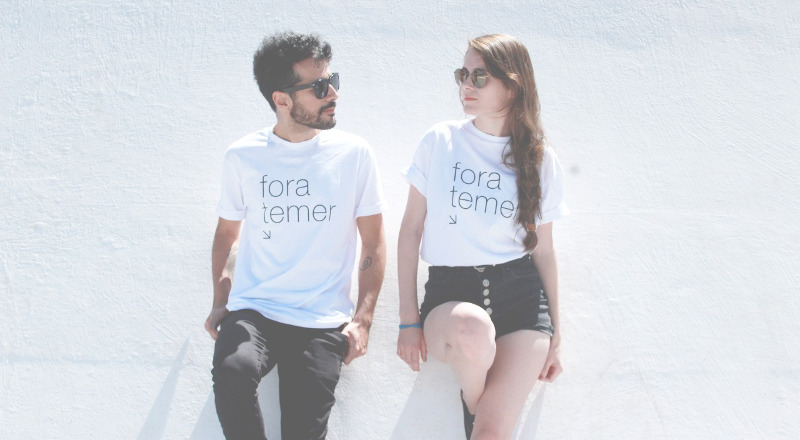
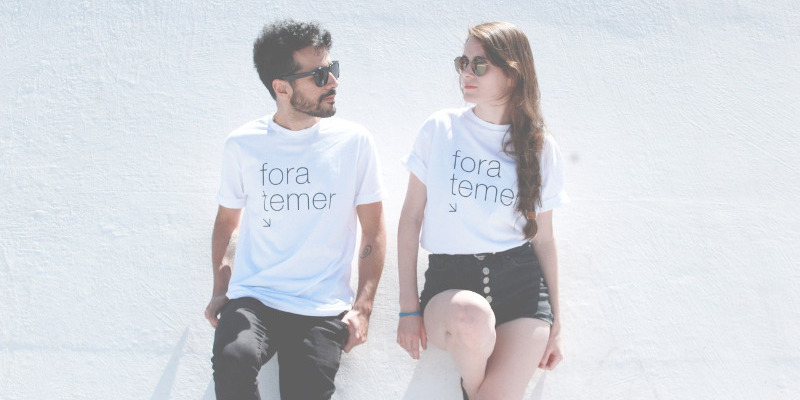
coma gente

diff --git a/css/main.css b/css/main.css
@@ -108,7 +108,7 @@ header {
 
 /* destaque */
 #home-destaque {
-	margin: 15px 0 10px 0;
+	margin: 15px 0 50px 0;
 	text-align: center;
 
 }
@@ -192,15 +192,15 @@ header {
 	height: 100%;
 }
 
-#home-novidades {
+#home-novidades, #home-gente {
 	margin: 15px 0 50px 0;
 	text-align: center;
 	box-sizing: border-box;
 }
 
 
-#home-novidades h4{
-	padding: 10px 0;
+#home-novidades h4, #home-gente h4{
+	padding: 10px 0 20px 0;
 	font-family: helveticaUL;
 	letter-spacing: 2px;
 	font-size: 14px;
@@ -208,7 +208,7 @@ header {
 	color: #A4A6A9;
 }
 
-.home-novidade {
+.home-novidade, .home-gente {
 	position: relative;
 	display: flex;
 	flex-direction
@@ -216,7 +216,7 @@ header {
 	text-align: center;
 	width: 100%;
 }
-.home-novidade .mask{
+.home-novidade .mask, .home-gente .mask{
 	position: absolute;
 	width: 100%;
 	height: 100%;
@@ -230,14 +230,14 @@ header {
 	
 }
 
-.home-novidade img {
+.home-novidade img, .home-gente img {
 	width: 100%;
 	height: 100%;
 }
 
-.home-novidade .novidade-text {
+.home-novidade .novidade-text, .home-gente .novidade-text {
 	position: absolute;
-	top: 70%;
+	top: 65%;
 	left: 20px;
 	bottom: 20px;
 	color: #FFF;
@@ -248,6 +248,10 @@ header {
 	color: #FFF;
 	text-align: left;
 }
+
+
+
+
 
 #home-mapa a {
 	font-family: robotoLight;

diff --git a/index.html b/index.html
@@ -81,7 +81,7 @@
 
 
 		<section id='home-destaque'>
-			<h4>que tipo de experiência você quer viver?</h4>
+			<h4>quais experiências você quer viver?</h4>
 			<div class='home-destaque-row'>
 				<div class='container-img-mask'>
 					<div class='mask'></div>
@@ -119,6 +119,21 @@
 
 		<hr/>
 
+
+		<section id='home-gente'>
+			<h4>experimente com a gente!</h4>
+			<div class='home-gente'>
+				<div class='mask'></div>
+				<img src='img/comagente.jpg' alt=''/>
+				<div class='novidade-text'>
+					viva novas<br/>
+					aventuras
+				</div>
+			</div>
+		</section>
+
+		<hr/>
+
 		<section id='home-novidades'>
 			<h4>novidades</h4>
 			<div class='home-novidade'>
@@ -130,6 +145,8 @@
 				</div>
 			</div>
 		</section>
+
+		
 
 	</div>
 
